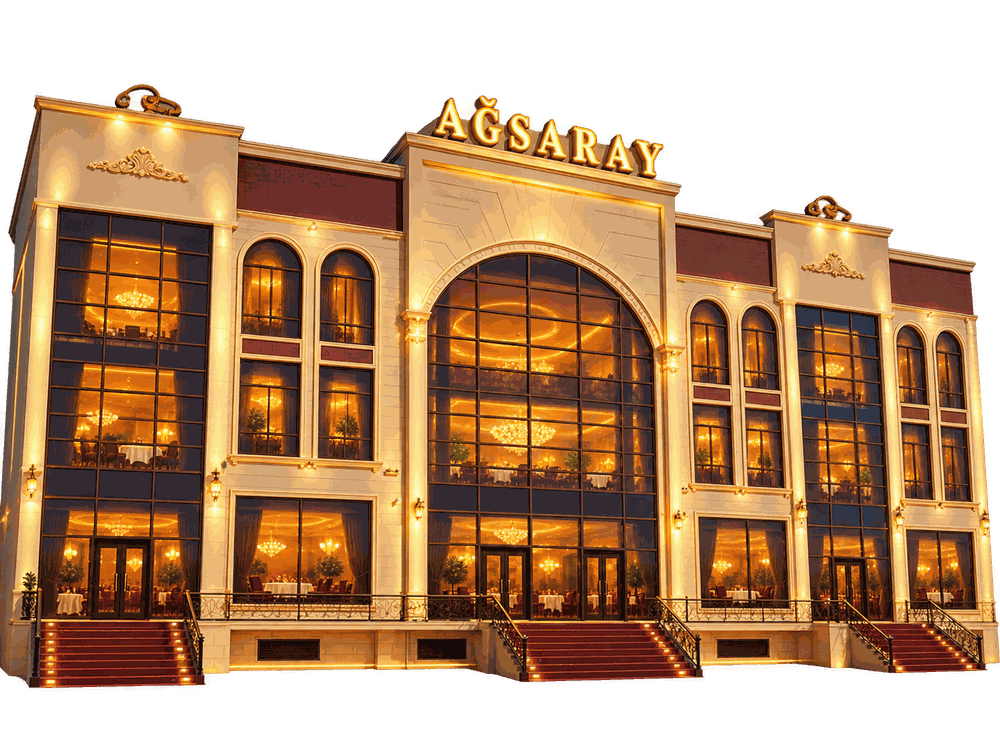
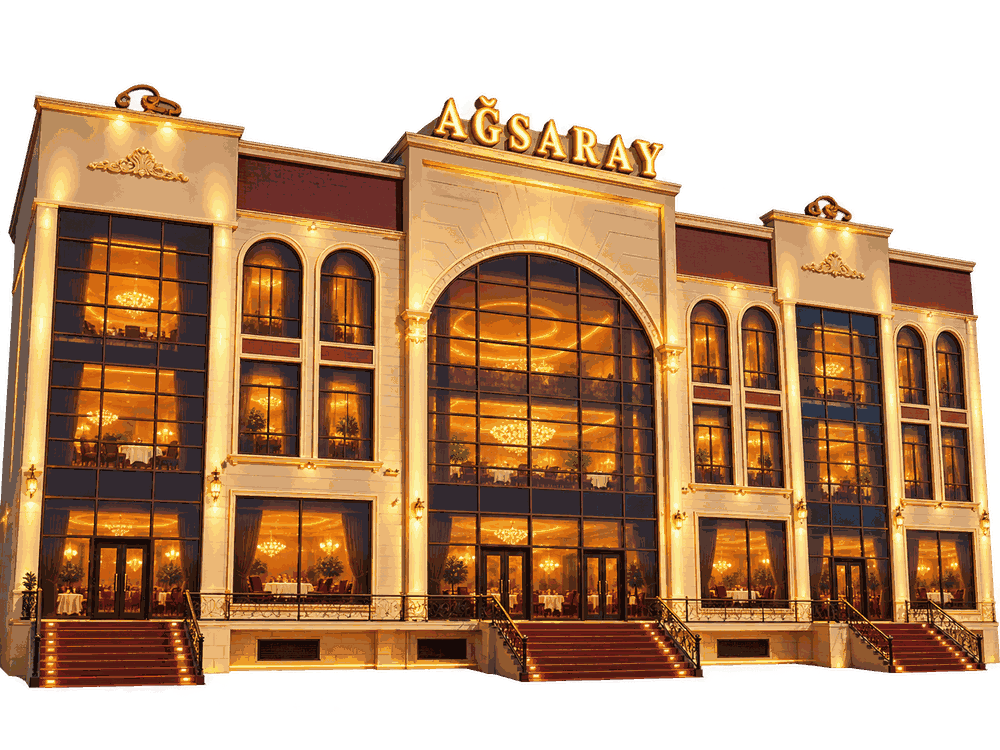
update2

diff --git a/src/components/InviteScreen.css b/src/components/InviteScreen.css
@@ -261,6 +261,12 @@
 
 /* ── RSVP ─────────────────────────────────────────── */
 .rsvp-section { padding: 44px 20px 20px; }
+.rsvp-section .rsvp-title {
+  font-size: clamp(24px, 6.5vw, 30px);
+  letter-spacing: 0.12em;
+  font-weight: 600;
+  margin-bottom: 22px;
+}
 
 /* ── Footer ───────────────────────────────────────── */
 .footer {

diff --git a/src/styles/App.css b/src/styles/App.css
@@ -25,6 +25,8 @@ body {
   background: var(--bg);
   color: var(--ink);
   -webkit-font-smoothing: antialiased;
+  -webkit-overflow-scrolling: touch;
+  overscroll-behavior-y: none;
 }
 
 .app-root {
@@ -36,12 +38,10 @@ a { color: inherit; }
 /* Scroll reveal */
 .reveal {
   opacity: 0;
-  transition: opacity 0.65s ease, transform 0.65s ease;
-  transform: translateY(18px);
+  transition: opacity 0.6s ease;
 }
 .reveal.visible {
   opacity: 1;
-  transform: translateY(0);
 }
 
 /* Divider */
